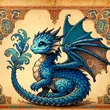
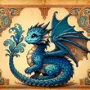
added comments, resized dragon cards to make the creatures more visible

diff --git a/Project/Sprint 3/src/Creature/NinjaDragon.java b/Project/Sprint 3/src/Creature/NinjaDragon.java
@@ -1,3 +1,14 @@
+/**
+ * NinjaDragon.java
+ *
+ * This class defines the NinjaDragon creature, a special type of dragon that
+ * implements the SpecialCreature interface. It includes a special action where
+ * the NinjaDragon swaps positions with the closest player on the board.
+ *
+ * Author: Alex Ung
+ * Date: 1/06/2024
+ */
+
 package src.Creature;
 
 import src.actors.DragonToken;
@@ -18,11 +29,24 @@ public class NinjaDragon extends Creature implements SpecialCreature{
         super("Ninja Dragon", retrieveImage("/src/Images/Ninja Dragon resize.jpg"), true);
     }
 
+    /**
+     * Retrieves the image of the Ninja Dragon.
+     *
+     * @param dragonAmount The amount of dragons (not used in this implementation).
+     * @return The ImageIcon of the Ninja Dragon.
+     */
     @Override
     public ImageIcon getDragonImage(int dragonAmount) {
         return new ImageIcon(Objects.requireNonNull(this.getClass().getResource("/src/Images/Ninja Dragon resize.jpg")));
     }
 
+    /**
+     * Performs the special action of the Ninja Dragon.
+     * This action involves swapping the position of the Ninja Dragon with the closest player
+     * on the board, considering the circular nature of the board.
+     *
+     * @param dragonToken The dragon token that will perform the special action.
+     */
     @Override
     public void performSpecialAction(DragonToken dragonToken) {
         PlayerManager playerManager = PlayerManager.getInstance();
@@ -30,6 +54,8 @@ public class NinjaDragon extends Creature implements SpecialCreature{
         int boardSize = BoardArray.getInstance().getSquares().size();
         int temp;
         int closestDistance = boardSize;
+
+        // Find the closest player
         for (DragonToken player:playerManager.getPlayers()){
             temp = circularDistance(dragonToken.getPosition(),player.getPosition(),boardSize);
             if (temp < closestDistance && !dragonToken.equals(player) && !player.isInCave()){
@@ -37,6 +63,7 @@ public class NinjaDragon extends Creature implements SpecialCreature{
                 closestDistance = temp;
             }
         }
+        // Perform the swap if a closest player is found
         if (closestPlayer != dragonToken){
             if (closestPlayer.getPosition() < dragonToken.getCave().getCavePosition()){
                 dragonToken.setCycleTracker(dragonToken.getCycleTracker()-1);
@@ -45,6 +72,15 @@ public class NinjaDragon extends Creature implements SpecialCreature{
         }
 
     }
+
+    /**
+     * Calculates the circular distance between two positions on the board.
+     *
+     * @param pos1 The first position.
+     * @param pos2 The second position.
+     * @param boardSize The size of the board.
+     * @return The minimum distance considering the circular nature of the board.
+     */
     private int circularDistance(int pos1, int pos2, int boardSize) {
         int directDistance = Math.abs(pos1 - pos2);
         int wrapAroundDistance = boardSize - directDistance;

diff --git a/Project/Sprint 3/src/utils/MovementManager.java b/Project/Sprint 3/src/utils/MovementManager.java
@@ -7,7 +7,7 @@
  * the interaction between game rules and user actions.
  *
  * Author: Alex Ung
- * Last Modified: 29/04/2024
+ * Last Modified: 1/06/2024
  */
 package src.utils;
 
@@ -197,7 +197,11 @@ public class MovementManager {
 
         return newPosition;
     }
-
+    /**
+     * Ends the game by announcing the winner and closing the application.
+     *
+     * @param dragonToken The token of the player who won the game.
+     */
     public void endGame(DragonToken dragonToken) {
         windowPanel.moveToken(dragonToken.getDragonTokenPanel(), dragonToken.getStartingPosition());
 
@@ -220,14 +224,23 @@ public class MovementManager {
             System.exit(0);
         }
     }
-
+    /**
+     * Swaps the positions of two dragon tokens on the board.
+     *
+     * @param dragonToken1 The first dragon token.
+     * @param dragonToken2 The second dragon token.
+     */
     public void swap(DragonToken dragonToken1, DragonToken dragonToken2) {
+        // Store the positions of the tokens before swapping
         int dt1NewPosition,dt2NewPosition;
         dt1NewPosition = dragonToken2.getPosition();
         dt2NewPosition = dragonToken1.getPosition();
 
+        // Move the tokens to their new positions on the board
         windowPanel.move(dragonToken1.getDragonTokenPanel(), dragonToken2.getPosition());
         windowPanel.move(dragonToken2.getDragonTokenPanel(), dragonToken1.getPosition());
+
+        // Update the positions of the dragon tokens
         dragonToken1.setPosition(dt1NewPosition);
         dragonToken2.setPosition(dt2NewPosition);
 

diff --git a/Project/Sprint 3/src/gui/DragonCardPool.java b/Project/Sprint 3/src/gui/DragonCardPool.java
@@ -20,7 +20,7 @@ public class DragonCardPool extends JPanel {
      */
     public DragonCardPool() {
         setOpaque(false); // Make the Panel transparent (other than the circle)
-        setLayout(new GridLayout(4, 4, 20, 20)); // Layout with 4 rows, 4 columns, and gaps
+        setLayout(new GridLayout(4, 4, 10, 10)); // Layout with 4 rows, 4 columns, and gaps
         generateDragonCards();
     }
 
